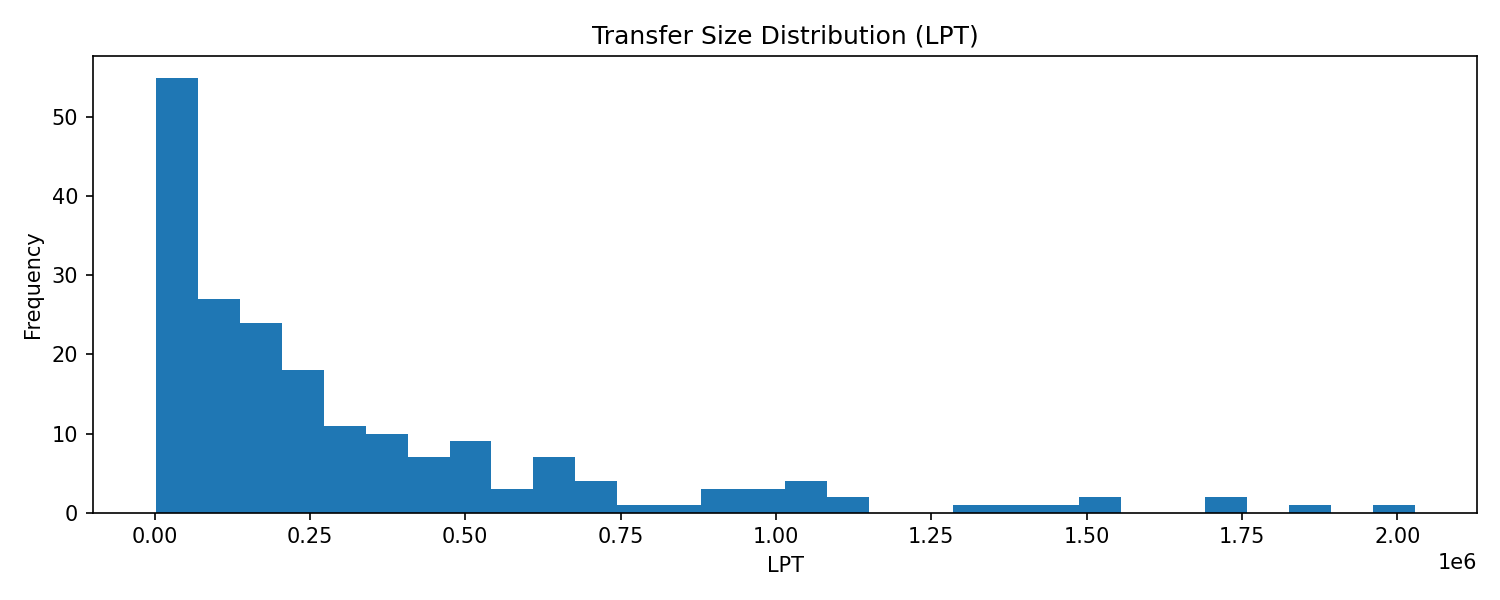
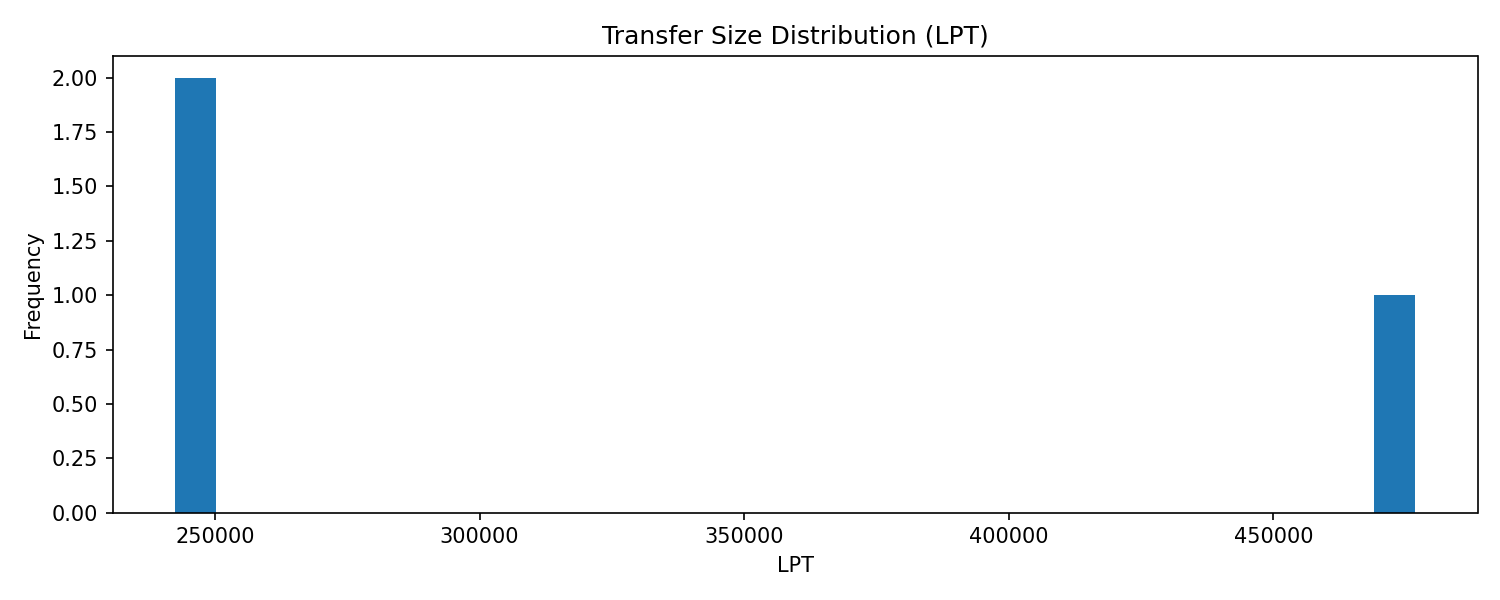
docs: add June summary + charts; feat: restore get_lpt_transfers.py

diff --git a/scripts/get_lpt_transfers.py b/scripts/get_lpt_transfers.py
@@ -1,0 +1,180 @@
+#!/usr/bin/env python3
+# -*- coding: utf-8 -*-
+"""
+get_lpt_transfers.py
+--------------------
+Récupère tous les transferts ERC-20 LPT (Livepeer) pour une adresse ETH donnée,
+avec pagination automatique Etherscan jusqu'à épuisement ou limites choisies.
+
+Usage (PowerShell, depuis la racine du projet) :
+  $env:ETHERSCAN_API_KEY="TA_CLE"
+  # a) Fenêtre par dates (recommandé, UTC)
+  python scripts/get_lpt_transfers.py 0xF977814e90dA44bFA03b6295A0616a897441aceC `
+    --startdate 2021-06-01 --enddate 2021-07-31 `
+    --out data/lpt_transfers_binance_hotwallet20.csv
+  # b) Fenêtre par blocs
+  python scripts/get_lpt_transfers.py 0xAdresse --startblock 12000000 --endblock 13000000 --out data/out.csv
+"""
+
+import os
+import sys
+import time
+import csv
+import argparse
+from datetime import datetime, timezone
+import requests
+
+ETHERSCAN_API = "https://api.etherscan.io/api"
+LPT_CONTRACT  = "0x58b6a8a3302369daec383334672404ee733ab239"
+
+def api_key() -> str:
+    k = os.getenv("ETHERSCAN_API_KEY", "").strip()
+    if not k:
+        sys.exit("Erreur: variable d'environnement ETHERSCAN_API_KEY manquante.")
+    return k
+
+def get_block_by_time(ts_utc: int, closest: str = "before") -> int:
+    """Mappe un timestamp (UTC) -> numéro de bloc via Etherscan."""
+    params = {
+        "module": "block",
+        "action": "getblocknobytime",
+        "timestamp": ts_utc,
+        "closest": closest,
+        "apikey": api_key(),
+    }
+    r = requests.get(ETHERSCAN_API, params=params, timeout=40)
+    r.raise_for_status()
+    js = r.json()
+    res = js.get("result")
+    try:
+        return int(res)
+    except Exception:
+        raise SystemExit(f"Etherscan getblocknobytime error: {res}")
+
+def parse_date_iso(d: str, end=False) -> int:
+    """'YYYY-MM-DD' -> timestamp UTC (seconde)."""
+    try:
+        y, m, dd = map(int, d.split("-"))
+        if end:
+            dt = datetime(y, m, dd, 23, 59, 59, tzinfo=timezone.utc)
+        else:
+            dt = datetime(y, m, dd, 0, 0, 0, tzinfo=timezone.utc)
+        return int(dt.timestamp())
+    except Exception:
+        raise SystemExit(f"Date invalide: {d} (attendu YYYY-MM-DD)")
+
+def fetch_transfers(address: str,
+                    startblock: int,
+                    endblock:   int,
+                    pagesize:   int = 10000,
+                    pause_s:    float = 0.21,
+                    max_pages:  int | None = None):
+    """
+    Récupère les transferts LPT paginés.
+    - pagesize: jusqu'à 10000 (limite Etherscan)
+    - pause_s : petite pause pour limiter le rate limit
+    - max_pages: pour borner (None = pas de borne)
+    """
+    page = 1
+    total = 0
+    session = requests.Session()
+
+    while True:
+        if max_pages is not None and page > max_pages:
+            break
+
+        params = {
+            "module": "account",
+            "action": "tokentx",
+            "contractaddress": LPT_CONTRACT,
+            "address": address,
+            "startblock": startblock,
+            "endblock": endblock,
+            "page": page,
+            "offset": pagesize,
+            "sort": "asc",
+            "apikey": api_key(),
+        }
+        r = session.get(ETHERSCAN_API, params=params, timeout=40)
+        r.raise_for_status()
+        js = r.json()
+
+        # Cas "No transactions found"
+        if js.get("status") == "0" and js.get("message") == "No transactions found":
+            break
+
+        result = js.get("result", [])
+        if not isinstance(result, list) or len(result) == 0:
+            break
+
+        for it in result:
+            yield {
+                "hash": it.get("hash"),
+                "blockNumber": it.get("blockNumber"),
+                "timeStamp": it.get("timeStamp"),
+                "from": it.get("from"),
+                "to": it.get("to"),
+                "value_LPT": float(it.get("value", "0"))/1e18,
+            }
+        total += len(result)
+        # Si la page n'est pas pleine, on a fini
+        if len(result) < pagesize:
+            break
+
+        page += 1
+        time.sleep(pause_s)
+
+def main():
+    ap = argparse.ArgumentParser()
+    ap.add_argument("address", help="Adresse Ethereum (ex: 0x...)")
+    ap.add_argument("--out", required=True, help="CSV de sortie")
+    # Fenêtre par blocs
+    ap.add_argument("--startblock", type=int, default=None)
+    ap.add_argument("--endblock",   type=int, default=None)
+    # Fenêtre par dates (UTC)
+    ap.add_argument("--startdate", type=str, default=None, help="YYYY-MM-DD")
+    ap.add_argument("--enddate",   type=str, default=None, help="YYYY-MM-DD")
+    # Contrôle pagination
+    ap.add_argument("--pagesize", type=int, default=10000)
+    ap.add_argument("--maxpages", type=int, default=None)  # sécurité si tu veux borner
+    args = ap.parse_args()
+
+    # Résoudre bloc range depuis dates si fourni
+    sb = args.startblock
+    eb = args.endblock
+    if args.startdate or args.enddate:
+        if not (args.startdate and args.enddate):
+            sys.exit("Si vous utilisez les dates, fournissez --startdate ET --enddate.")
+        ts_start = parse_date_iso(args.startdate, end=False)
+        ts_end   = parse_date_iso(args.enddate,   end=True)
+        if ts_start > ts_end:
+            sys.exit("startdate > enddate.")
+        sb = get_block_by_time(ts_start, closest="after")
+        eb = get_block_by_time(ts_end,   closest="before")
+
+    if sb is None: sb = 0
+    if eb is None: eb = 99999999
+
+    rows = []
+    for row in fetch_transfers(
+        address=args.address,
+        startblock=sb,
+        endblock=eb,
+        pagesize=args.pagesize,
+        pause_s=0.21,
+        max_pages=args.maxpages,
+    ):
+        rows.append(row)
+
+    # Écriture CSV
+    os.makedirs(os.path.dirname(args.out) or ".", exist_ok=True)
+    with open(args.out, "w", newline="", encoding="utf-8") as f:
+        w = csv.DictWriter(f, fieldnames=["hash","blockNumber","timeStamp","from","to","value_LPT"])
+        w.writeheader()
+        for r in rows:
+            w.writerow(r)
+
+    print(f"✅ Exported {len(rows)} transfers to {args.out}")
+
+if __name__ == "__main__":
+    main()

diff --git a/docs/summary_2021-06.md b/docs/summary_2021-06.md
@@ -1,8 +1,8 @@
 # 📊 LPT Transfers Summary
 
-- **Transfers count:** 14
-- **Total LPT volume:** 1,596,201.20
-- **Average per transfer:** 114,014.37
+- **Transfers count:** 3
+- **Total LPT volume:** 969,219.28
+- **Average per transfer:** 323,073.09
 - **Largest transfer:** 476,851.50
 
 ## 🔝 Top 5 transfers
@@ -12,25 +12,13 @@
 | 0x0056d115dd69227c4d8d8ea5e2e7f017ee6fff0495192b148b4b484e67d2c676 | 0x28c6c06298d514db089934071355e5743bf21d60 | 0xf977814e90da44bfa03b6295a0616a897441acec |      476852 |
 | 0xedaa436dfe74349aeab0c878c59f2437ae271dcb6ac12a1315760225ccf5a28a | 0xf977814e90da44bfa03b6295a0616a897441acec | 0x505f8c2ee81f1c6fa0d88e918ef0491222e05818 |      250000 |
 | 0x96cf7798bd484f880e4a6c5a2497fae269d04fee6b91c7cafba189c528ae38ef | 0x28c6c06298d514db089934071355e5743bf21d60 | 0xf977814e90da44bfa03b6295a0616a897441acec |      242368 |
-| 0x5d2d5a87dce22a111a75fdd33f1d458301f686294560865c60fef9c0f392fe04 | 0xf977814e90da44bfa03b6295a0616a897441acec | 0x28c6c06298d514db089934071355e5743bf21d60 |      236101 |
-| 0x08104d64678dd944e3ce6b58c649d2a6e73fafd8fb78df9cd6cde7d87daac5f3 | 0x28c6c06298d514db089934071355e5743bf21d60 | 0xf977814e90da44bfa03b6295a0616a897441acec |      192780 |
 
 ## 📆 Daily volume (LPT)
 
 | date       |   value_LPT |
 |:-----------|------------:|
-| 2021-06-17 |    726852   |
-| 2021-06-23 |    242368   |
-| 2021-07-05 |    192780   |
-| 2021-07-16 |     61999.3 |
-| 2021-07-21 |     12553   |
-| 2021-07-22 |     12872.7 |
-| 2021-07-23 |     13678.3 |
-| 2021-07-25 |     15248   |
-| 2021-07-26 |     35978.9 |
-| 2021-07-29 |     28994.9 |
-| 2021-07-30 |     16775.4 |
-| 2021-07-31 |    236101   |
+| 2021-06-17 |      726852 |
+| 2021-06-23 |      242368 |
 
 ## 🖼 Charts
 
